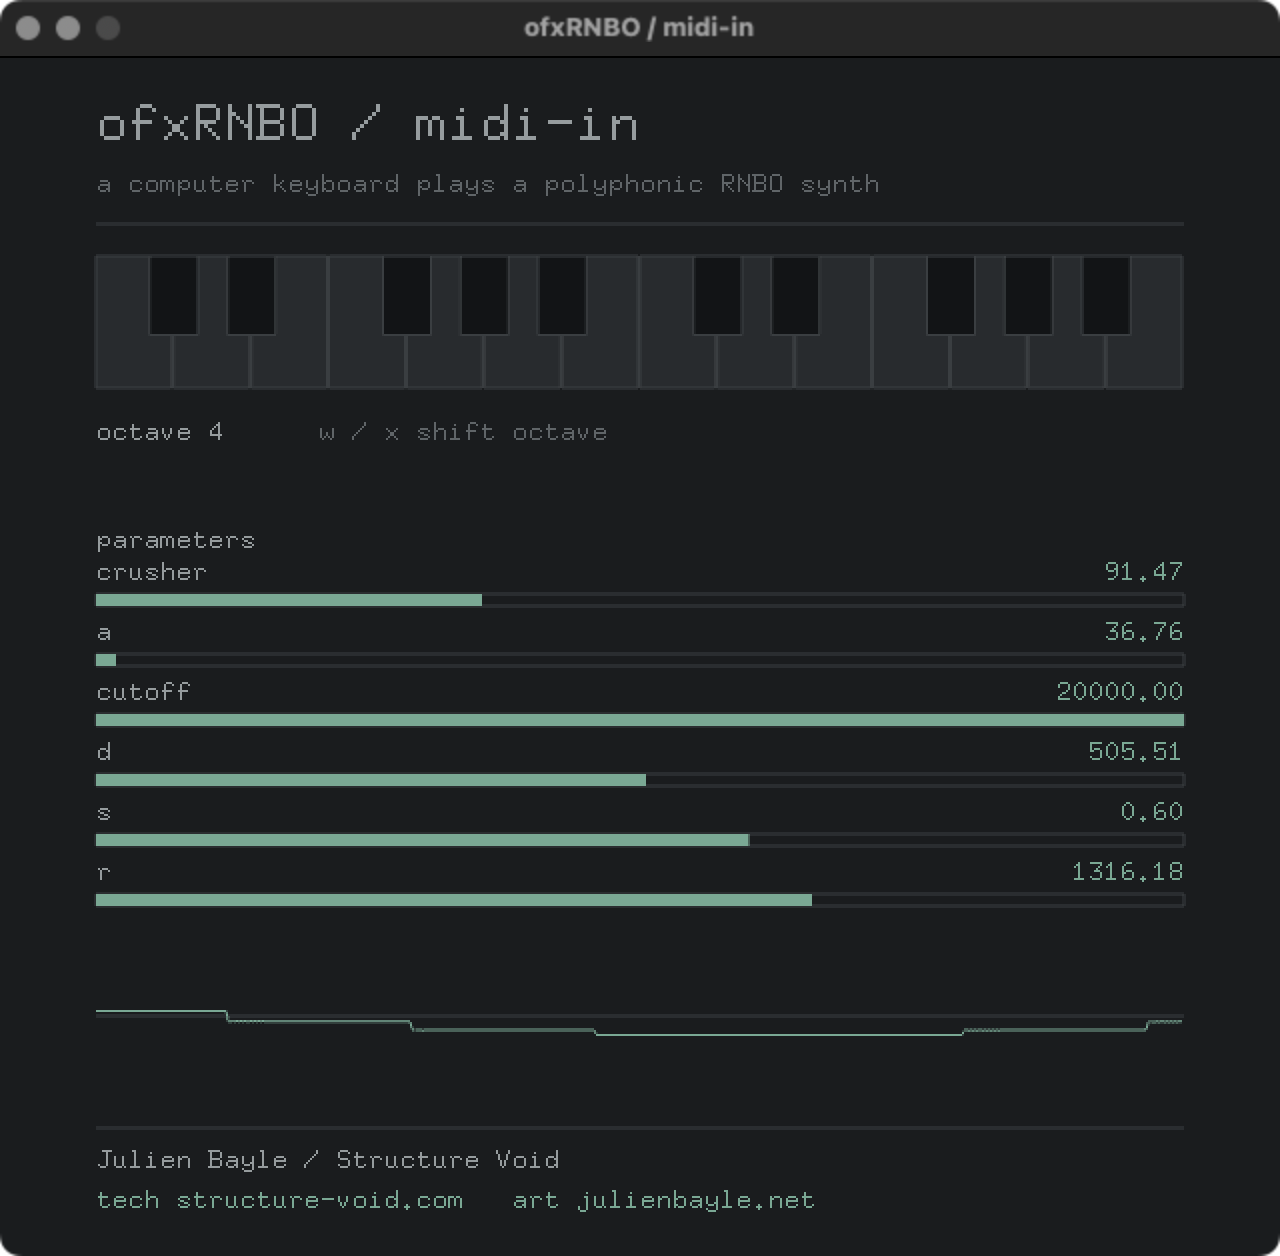
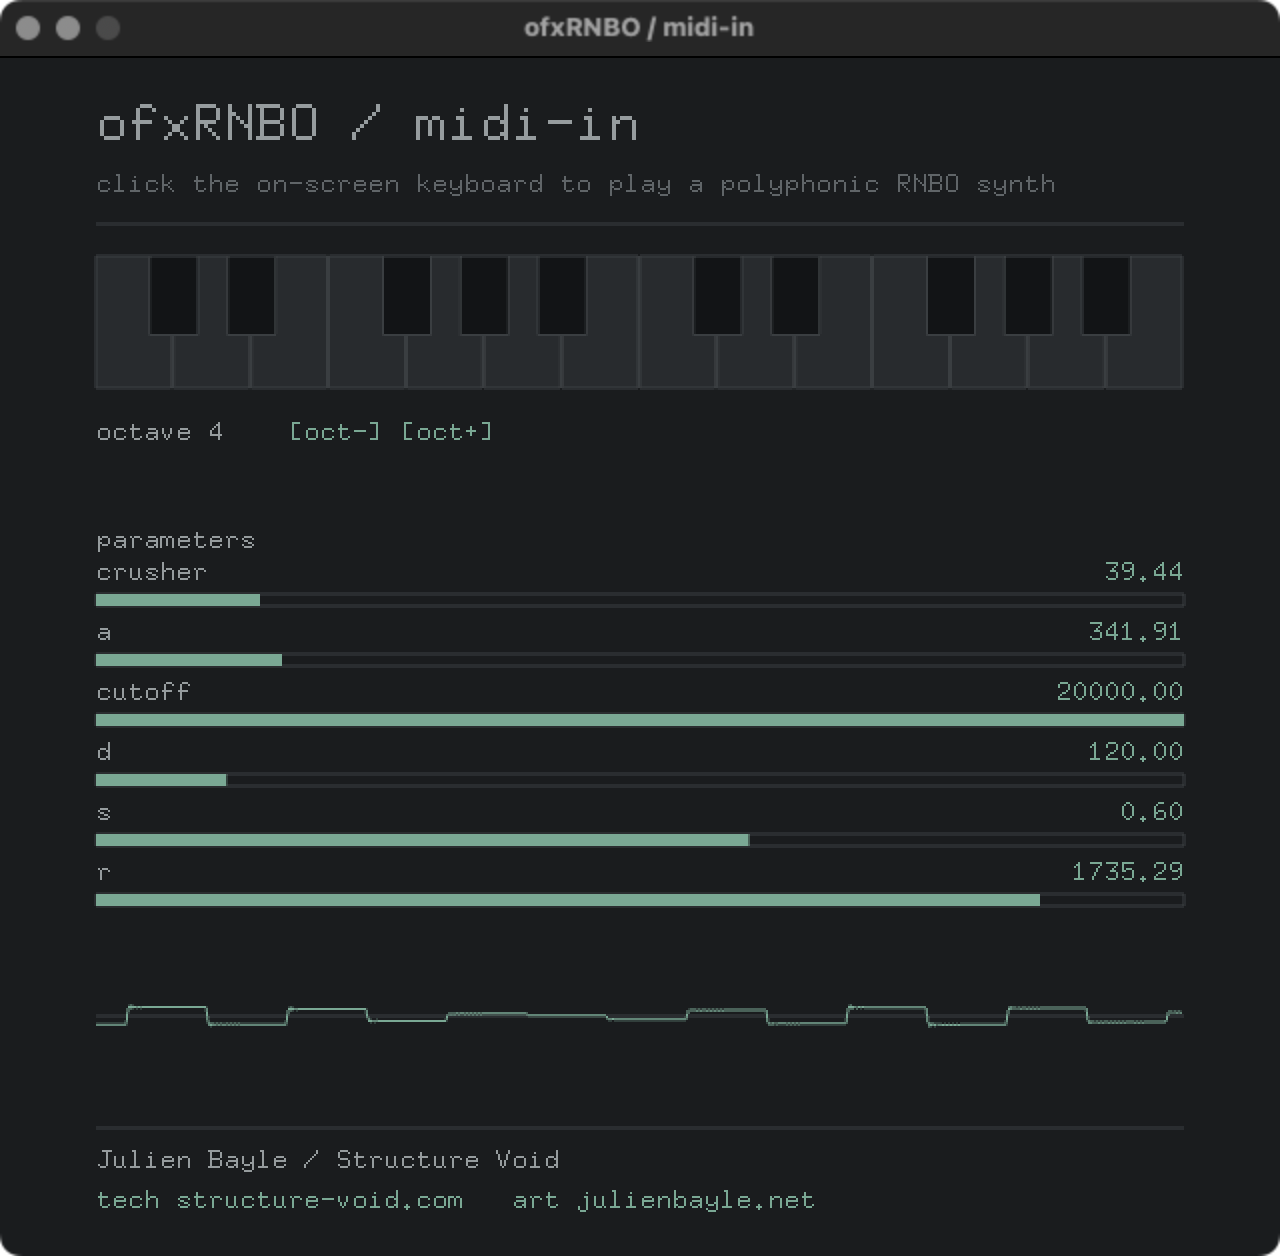
example-midi-in: mouse-only keyboard with on-screen octave buttons

diff --git a/example-midi-in/src/ofApp.cpp b/example-midi-in/src/ofApp.cpp
@@ -1,5 +1,5 @@
 // ofxRNBO
-// Example app implementation: transposable computer keyboard into a RNBO synth.
+// Example app implementation: mouse-played on-screen keyboard into a RNBO synth.
 //
 // Julien Bayle / Structure Void
 // https://julienbayle.net
@@ -10,7 +10,6 @@
 
 #include "ofApp.h"
 
-#include <cctype>
 #include <set>
 
 // Visual charter, shared across all ofxRNBO examples.
@@ -94,6 +93,11 @@ void ofApp::setup()
 	techLinkZone = textZone(techLabel, kMargin, linksY);
 	artLinkZone = textZone("art julienbayle.net", kMargin + techLabel.size() * kCharW + 3 * kCharW, linksY);
 
+	// Clickable octave-shift buttons, on the line under the keyboard.
+	const float octaveY = kKbTop + kKbH + 26.0f;
+	octaveDownZone = textZone("[oct-]", kMargin + 12 * kCharW, octaveY);
+	octaveUpZone = textZone("[oct+]", kMargin + 19 * kCharW, octaveY);
+
 	settings.setOutListener(this);
 	soundStream.setup(settings);
 }
@@ -141,7 +145,7 @@ void ofApp::drawHeader()
 	ofSetDrawBitmapMode(OF_BITMAPMODE_SIMPLE);
 
 	ofSetColor(kDim);
-	ofDrawBitmapString("a computer keyboard plays a polyphonic RNBO synth", kMargin, 68);
+	ofDrawBitmapString("click the on-screen keyboard to play a polyphonic RNBO synth", kMargin, 68);
 
 	ofSetColor(kLine);
 	ofDrawLine(kMargin, 84, kWidth - kMargin, 84);
@@ -208,15 +212,8 @@ int ofApp::keyNoteAt(int x, int y) const
 //--------------------------------------------------------------
 void ofApp::drawKeyboard()
 {
-	// Which note offsets are currently held, from the machine keyboard and from the mouse, and
-	// fall on the drawn range. These light up.
+	// Which note offset is currently held by the mouse and falls on the drawn range. It lights up.
 	std::set<int> lit;
-	for (std::map<int, int>::const_iterator it = activeKeys.begin(); it != activeKeys.end(); ++it) {
-		const int off = it->second - baseNote;
-		if (off >= 0 && off < 12 * kKbOctaves) {
-			lit.insert(off);
-		}
-	}
 	if (mouseNote >= 0) {
 		const int off = mouseNote - baseNote;
 		if (off >= 0 && off < 12 * kKbOctaves) {
@@ -250,12 +247,14 @@ void ofApp::drawKeyboard()
 		ofFill();
 	}
 
-	// Current octave, on one uncrowded line under the keyboard.
+	// Current octave, with two clickable shift buttons on the same line.
 	const int octave = baseNote / 12 - 1;
+	const float octaveY = kKbTop + kKbH + 26.0f;
 	ofSetColor(kText);
-	ofDrawBitmapString("octave " + ofToString(octave), kMargin, kKbTop + kKbH + 26.0f);
-	ofSetColor(kDim);
-	ofDrawBitmapString("w / x shift octave", kMargin + 14 * kCharW, kKbTop + kKbH + 26.0f);
+	ofDrawBitmapString("octave " + ofToString(octave), kMargin, octaveY);
+	ofSetColor(kAccent);
+	ofDrawBitmapString("[oct-]", kMargin + 12 * kCharW, octaveY);
+	ofDrawBitmapString("[oct+]", kMargin + 19 * kCharW, octaveY);
 }
 
 //--------------------------------------------------------------
@@ -355,40 +354,7 @@ void ofApp::drawFooter()
 	}
 }
 
-//--------------------------------------------------------------
-int ofApp::semitoneForKey(int key) const
-{
-	// AZERTY (French) piano layout. openFrameworks reports the character the layout produces,
-	// and on a French AZERTY keyboard the home row keys produce q s d f g h j k (the naturals)
-	// while the row above produces z e t y u (the sharps). Octave shift is on w and x, the two
-	// bottom-left keys, since z is now a note.
-	switch (std::tolower(key)) {
-		case 'q': return 0;   // C
-		case 'z': return 1;   // C sharp
-		case 's': return 2;   // D
-		case 'e': return 3;   // D sharp
-		case 'd': return 4;   // E
-		case 'f': return 5;   // F
-		case 't': return 6;   // F sharp
-		case 'g': return 7;   // G
-		case 'y': return 8;   // G sharp
-		case 'h': return 9;   // A
-		case 'u': return 10;  // A sharp
-		case 'j': return 11;  // B
-		case 'k': return 12;  // C, one octave up
-		default:  return -1;
-	}
-}
 
-//--------------------------------------------------------------
-std::string ofApp::noteName(int note) const
-{
-	static const char * names[12] = {
-		"C", "C#", "D", "D#", "E", "F", "F#", "G", "G#", "A", "A#", "B"
-	};
-	const int octave = note / 12 - 1;   // MIDI note 60 is C4
-	return std::string(names[note % 12]) + ofToString(octave);
-}
 
 //--------------------------------------------------------------
 void ofApp::setParamFromMouse(int index, int x)
@@ -403,34 +369,6 @@ void ofApp::setParamFromMouse(int index, int x)
 	rnbo.setParameter(p.index, p.value);
 }
 
-//--------------------------------------------------------------
-void ofApp::keyPressed(int key)
-{
-	const int k = std::tolower(key);
-
-	// Octave shift on w and x. On QWERTY Ableton uses z and x, but here z is the C sharp key,
-	// so the octave-down key moves to w, its bottom-left neighbour. Does not affect held notes.
-	if (k == 'w') {
-		baseNote = std::max(0, baseNote - 12);
-		return;
-	}
-	if (k == 'x') {
-		baseNote = std::min(108, baseNote + 12);
-		return;
-	}
-
-	const int st = semitoneForKey(k);
-	if (st < 0) {
-		return;
-	}
-	// Absorb the operating system key auto-repeat: if the key is already held, do nothing.
-	if (activeKeys.find(k) != activeKeys.end()) {
-		return;
-	}
-	const int note = static_cast<int>(ofClamp(baseNote + st, 0, 127));
-	activeKeys[k] = note;
-	sendNoteOn(note);
-}
 
 //--------------------------------------------------------------
 void ofApp::sendNoteOn(int note)
@@ -445,18 +383,6 @@ void ofApp::sendNoteOff(int note)
 	rnbo.sendMidiNote(channel, note, 0, false);
 }
 
-//--------------------------------------------------------------
-void ofApp::keyReleased(int key)
-{
-	const int k = std::tolower(key);
-	std::map<int, int>::iterator it = activeKeys.find(k);
-	if (it != activeKeys.end()) {
-		// The note-off is sent on the exact note this key started, so an octave shift while the
-		// key was held cannot leave a note stuck on.
-		sendNoteOff(it->second);
-		activeKeys.erase(it);
-	}
-}
 
 //--------------------------------------------------------------
 void ofApp::mouseMoved(int x, int y)
@@ -477,7 +403,16 @@ void ofApp::mousePressed(int x, int y, int button)
 		ofLaunchBrowser(artUrl);
 		return;
 	}
-	// On-screen keyboard, the universal way to play. One note per press, held until release.
+	// Octave shift buttons. They move the whole keyboard, not any note currently held.
+	if (hit(octaveDownZone, x, y)) {
+		baseNote = std::max(0, baseNote - 12);
+		return;
+	}
+	if (hit(octaveUpZone, x, y)) {
+		baseNote = std::min(108, baseNote + 12);
+		return;
+	}
+	// On-screen keyboard, played with the mouse. One note per press, held until release.
 	const int kbNote = keyNoteAt(x, y);
 	if (kbNote >= 0) {
 		mouseNote = kbNote;

diff --git a/example-midi-in/src/ofApp.h b/example-midi-in/src/ofApp.h
@@ -1,7 +1,7 @@
 #pragma once
 
 // ofxRNBO
-// Example app: a transposable computer keyboard plays a polyphonic RNBO synth.
+// Example app: play a polyphonic RNBO synth from the on-screen keyboard, with the mouse.
 //
 // Julien Bayle / Structure Void
 // https://julienbayle.net
@@ -13,15 +13,11 @@
 #include "ofMain.h"
 #include "ofxRNBO.h"
 
-#include <map>
-
 class ofApp : public ofBaseApp {
 public:
 	void setup() override;
 	void update() override;
 	void draw() override;
-	void keyPressed(int key) override;
-	void keyReleased(int key) override;
 	void mouseMoved(int x, int y) override;
 	void mousePressed(int x, int y, int button) override;
 	void mouseDragged(int x, int y, int button) override;
@@ -30,8 +26,6 @@ public:
 	void audioOut(ofSoundBuffer & buffer) override;
 
 private:
-	int semitoneForKey(int key) const;   // key char to semitone offset, -1 if not a note key
-	std::string noteName(int note) const;
 	void setParamFromMouse(int index, int x);
 
 	void sendNoteOn(int note);
@@ -53,15 +47,10 @@ private:
 	int baseNote = 60;   // MIDI note for the leftmost key, middle C by default
 	int velocity = 100;
 	int channel = 0;
-	// Keys currently held, mapped to the MIDI note each one triggered. Keying on the character
-	// gives one note per physical key, lets a note-off use the exact note the note-on sent even
-	// after an octave shift, and absorbs the operating system key auto-repeat: a held key is
-	// already in the map, so no repeated note-on.
-	std::map<int, int> activeKeys;
 
-	// On-screen keyboard, clickable and universal, independent of the machine layout. Each key
-	// carries its offset from baseNote so a click sends baseNote + offset. Black keys are tested
-	// before white keys because they sit on top.
+	// On-screen keyboard, played with the mouse. Each key carries its offset from baseNote so a
+	// click sends baseNote + offset. Black keys are tested before white keys because they sit on
+	// top.
 	struct Key {
 		ofRectangle rect;
 		int offset = 0;   // semitones above baseNote
@@ -69,6 +58,10 @@ private:
 	};
 	std::vector<Key> keys;
 	int mouseNote = -1;   // MIDI note currently held by the mouse, -1 if none
+
+	// Clickable octave-shift buttons, resolved in setup.
+	ofRectangle octaveDownZone;
+	ofRectangle octaveUpZone;
 
 	// Synth parameters exposed by the export, shown as sliders. Whatever the patch exposes,
 	// so this adapts to the actual synth without assuming names.

diff --git a/example-midi-in/README.md b/example-midi-in/README.md
@@ -1,8 +1,8 @@
 # example-midi-in
 
-MIDI notes from openFrameworks into a RNBO synth. A transposable computer keyboard
-plays a polyphonic RNBO voice with an ADSR envelope, a bit-crusher and a lowpass
-filter: press keys to hold notes, release to let them go.
+MIDI notes from openFrameworks into a RNBO synth. You play a polyphonic RNBO synth
+by clicking an on-screen keyboard with the mouse. The patch has an ADSR envelope, a
+bit-crusher and a lowpass filter: click a key to sound a note, release to let it go.
 
 | patch | openFrameworks |
 | --- | --- |
@@ -12,31 +12,26 @@ filter: press keys to hold notes, release to let them go.
 
 - Sending MIDI note-on and note-off from oF into RNBO with
   `ofxRNBO::sendMidiNote`, the upstream MIDI path.
-- Polyphony from the keyboard: several keys held at once send several notes, and
-  each note-off matches the note its key started.
-- Absorbing the operating system key auto-repeat, so a held key sends one
-  note-on, not a stream.
+- Playing from an on-screen keyboard with the mouse: click a key for note-on,
+  release for note-off, drag across keys to slide from one note to the next.
+- The synth itself is polyphonic, the export provides several voices. The mouse
+  plays one note at a time, so you hear the synth note by note rather than as a
+  held chord.
 - The synth parameters, read from the export and driven live from sliders: the
   ADSR (`a d s r`), the crusher and the cutoff.
 
-This example uses the machine keyboard only, no external MIDI and no ofxMidi. An
-external MIDI input example comes separately.
+No external MIDI and no ofxMidi; you play with the mouse. An external MIDI input
+example comes separately.
 
 ## Keyboard
 
-Click the on-screen keyboard to play. This is the universal way and works on any
-keyboard layout: press a key with the mouse for note-on, release for note-off. The
-keys light up in the accent colour on the notes that are held. `w` and `x` shift
-the octave, shown next to the keyboard.
+Play with the mouse on the on-screen keyboard:
 
-As a bonus on a French AZERTY keyboard, the machine keys play too:
-
-- `q s d f g h j k` play the naturals, C D E F G A B and the next C.
-- `z e   t y u` play the sharps in between.
-- `w` and `x` shift the octave down and up.
-
-Chords need several keys at once, so use the machine keyboard for polyphony; the
-mouse plays one note at a time.
+- Click a key for note-on, release for note-off.
+- Drag with the button held to slide from one key to the next: the note you leave
+  stops and the note you enter starts, one note at a time.
+- The key lights up in the accent colour on the note being played.
+- `[oct-]` and `[oct+]` under the keyboard shift the octave, shown next to them.
 
 ## Patch to export, the three-step drill
 
@@ -89,10 +84,10 @@ make RunRelease
 
 ## What to see and hear
 
-A fixed window, dark and monospace. A two-octave keyboard that lights up the held
-notes, the current octave, and the key legend. Below, a slider for each synth
-parameter. At the bottom, a mono scope of the output. Play the keyboard and you
-should hear the RNBO synth, one voice per held key, with its ADSR shaping each note.
+A fixed window, dark and monospace. A two-octave keyboard that lights the note
+being played, the current octave with its two shift buttons, and below, a slider
+for each synth parameter. At the bottom, a mono scope of the output. Click and drag
+on the keyboard and you should hear the RNBO synth, with its ADSR shaping each note.
 
 If the window says "no export loaded", you have not exported the patch into
 `rnbo-export/` yet. Do the three steps above and rebuild.
